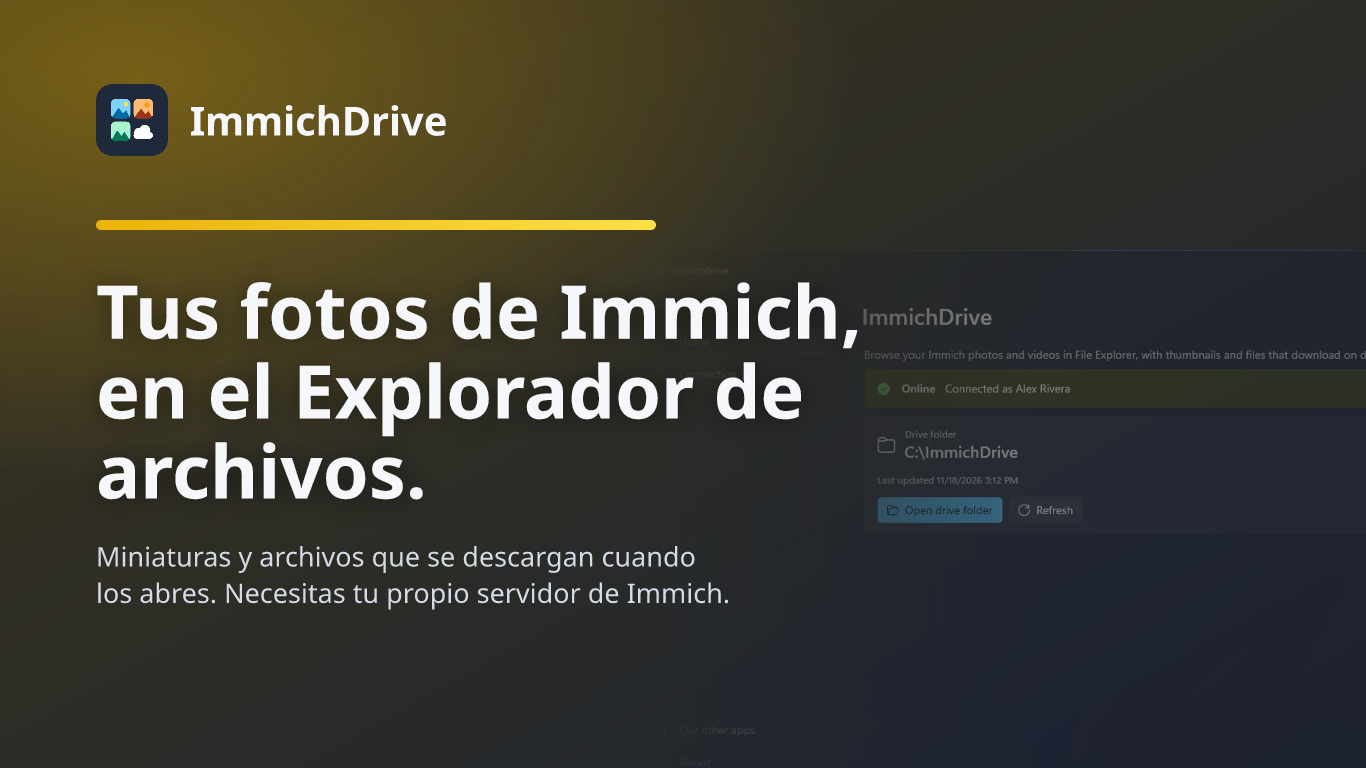
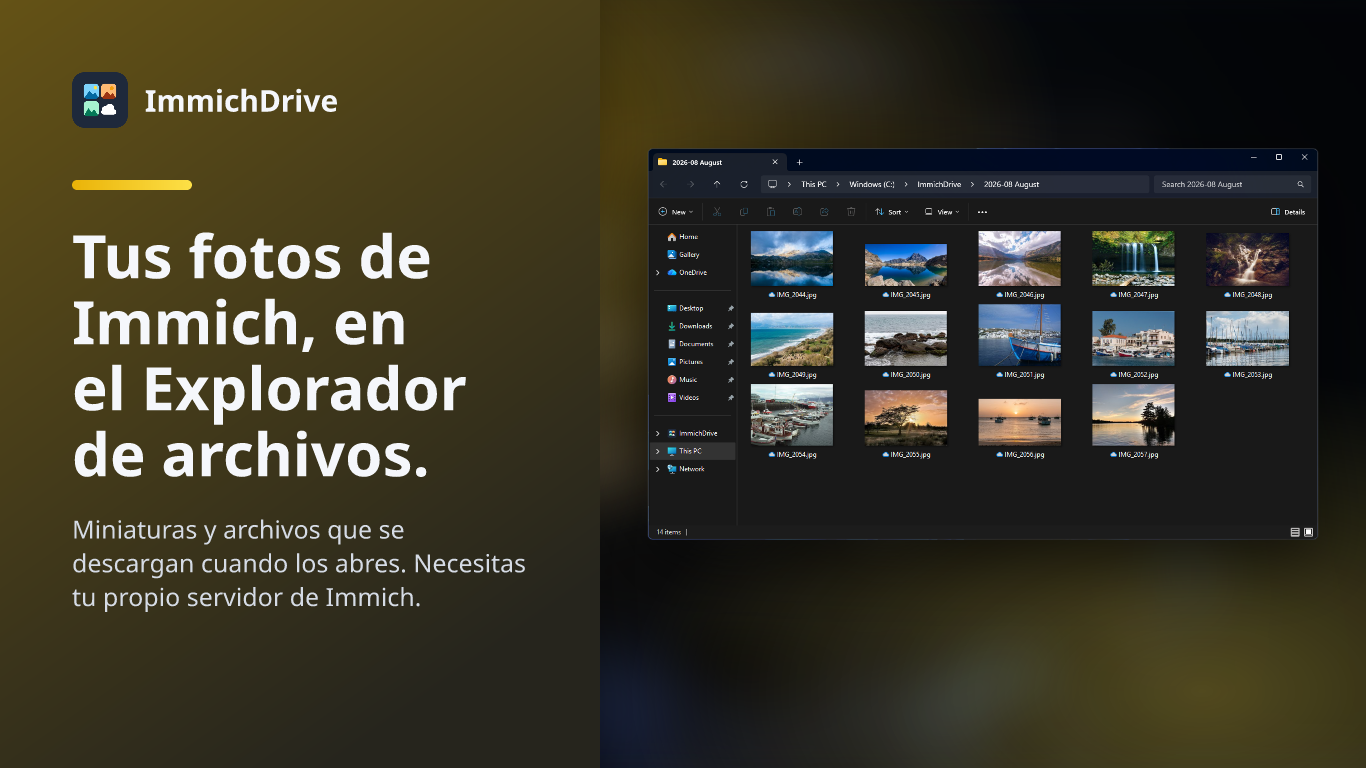
Store hero: split layout with the app's real UI (D-123)

diff --git a/store-assets/README.md b/store-assets/README.md
@@ -32,4 +32,4 @@ A UI change that shows in a screenshot means recapturing that shot.
 
 ## The first screenshot: a generated hero
 
-Store search shows only the first screenshot, at about 320 x 180, so it is a generated hero (D-123): a brand card on a gold gradient with the icon, name, headline and subline, over a faint view of the Home page from `raw/microsoft/00-home-dark.png`; the settings window is setup that users rarely see again, so the card leads with the promise instead (D-123). Each listing locale has its own, drawn from its `heroHeadline` and `heroSubline` in `listings.json`; en-CA and fr-CA use en-US's and fr-FR's. Its caption is the subline. `npm run hero` draws them (devkit, through winui-app-kit's `scripts/devkit`), and `npm run check:hero` in `validate` fails when one no longer matches its inputs. New or changed headlines are approved by the maintainer, like any screenshot.
+Store search shows only the first screenshot, at about 320 x 180, so it is a generated hero (D-123): the split layout, a gold brand panel with the icon, name, headline and subline on the left, beside the real UI enlarged from `raw/microsoft/02-thumbnails-dark.png` on the right: File Explorer showing the drive with real thumbnails, since Explorer is where people use ImmichDrive. Each listing locale has its own, drawn from its `heroHeadline` and `heroSubline` in `listings.json`; en-CA and fr-CA use en-US's and fr-FR's. Its caption is the subline. `npm run hero` draws them (devkit, through winui-app-kit's `scripts/devkit`), and `npm run check:hero` in `validate` fails when one no longer matches its inputs. New or changed headlines are approved by the maintainer, like any screenshot.
